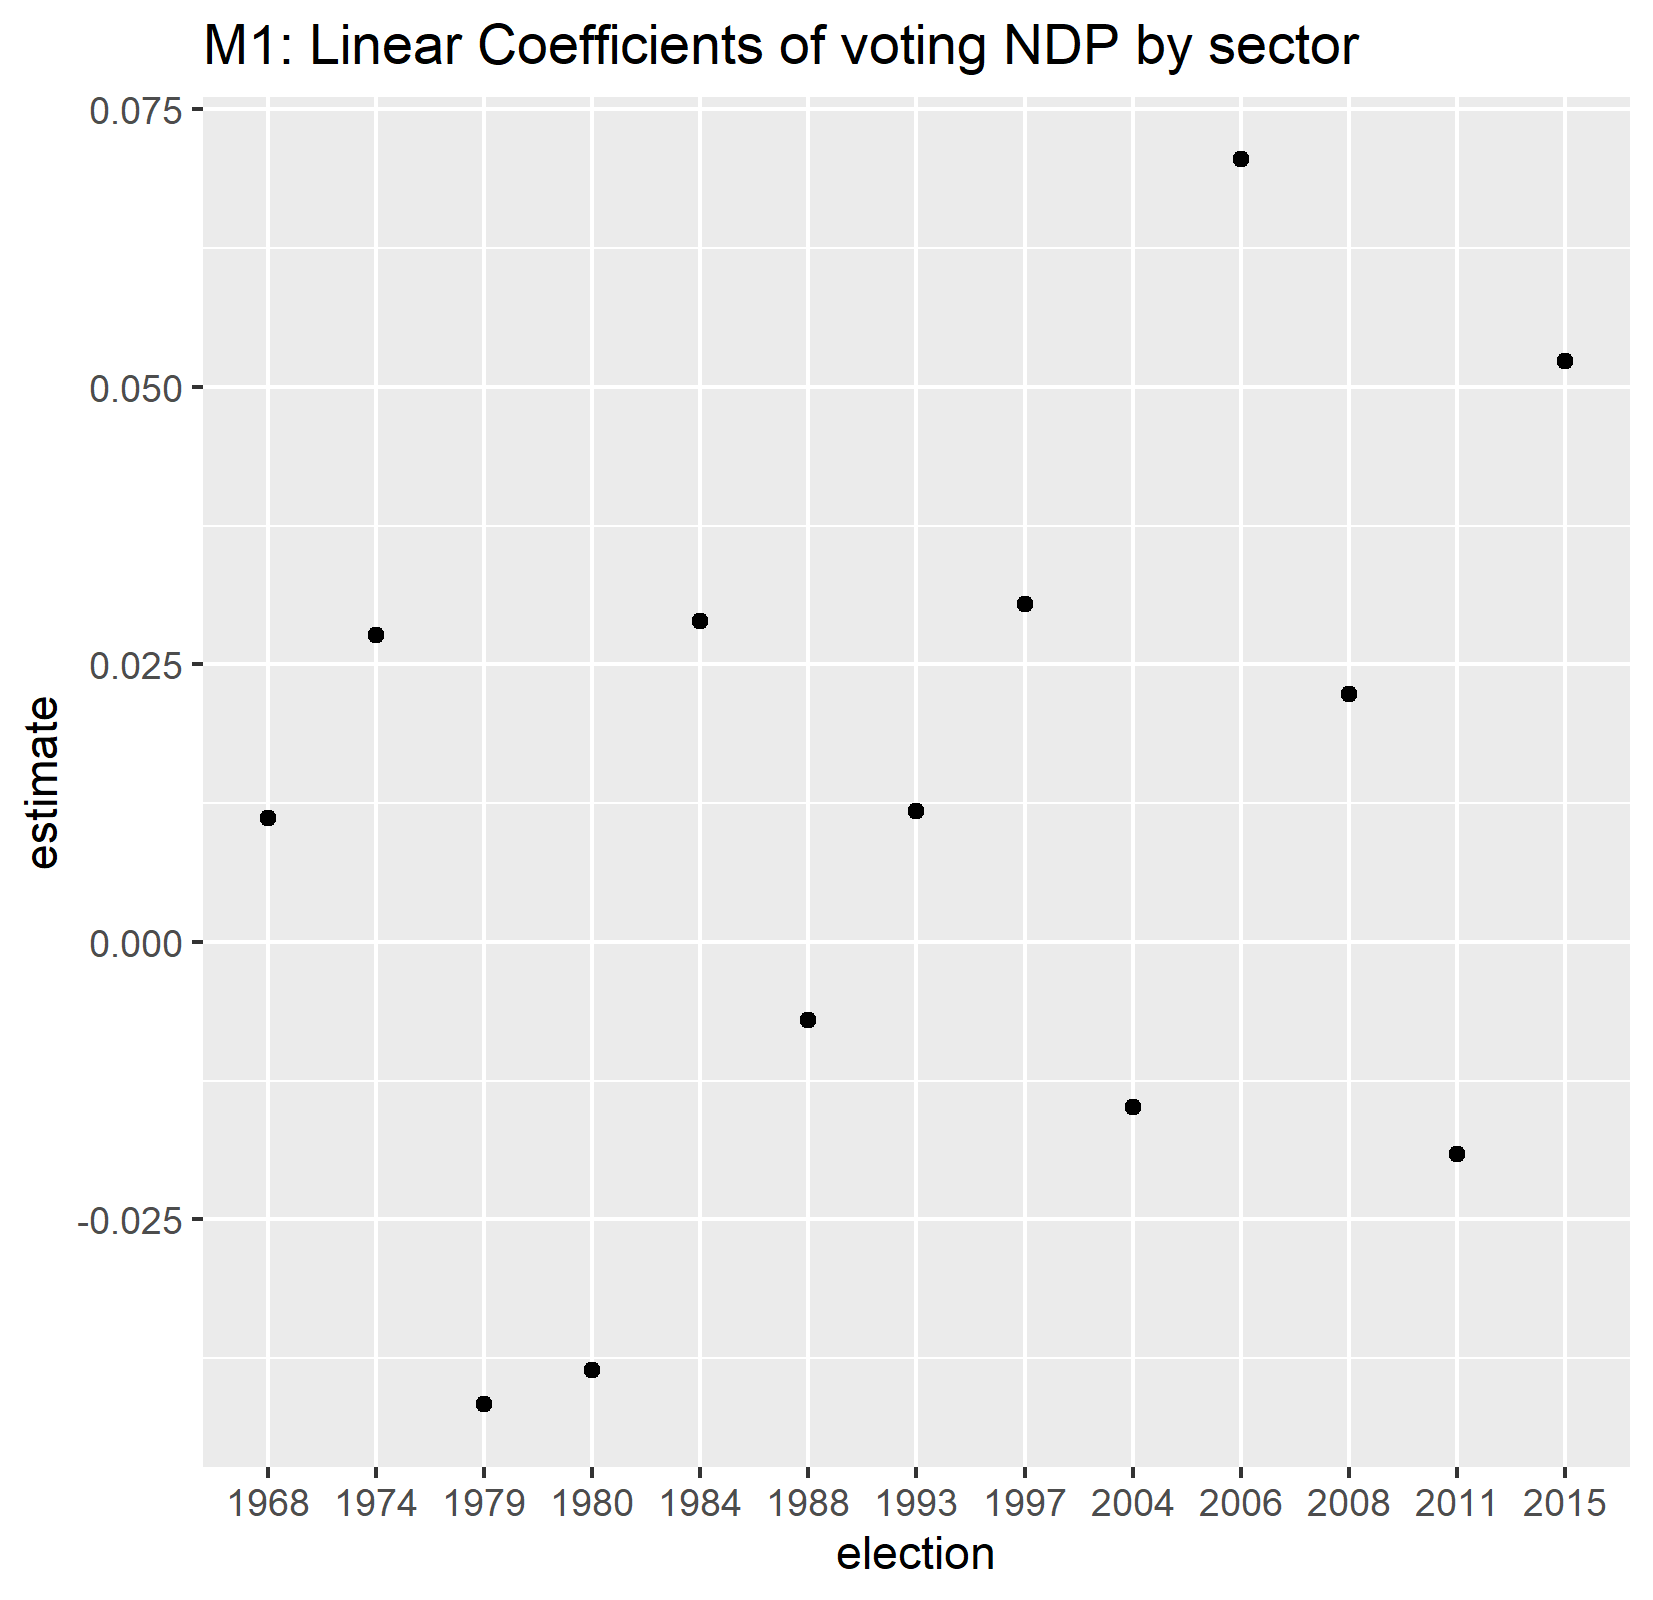
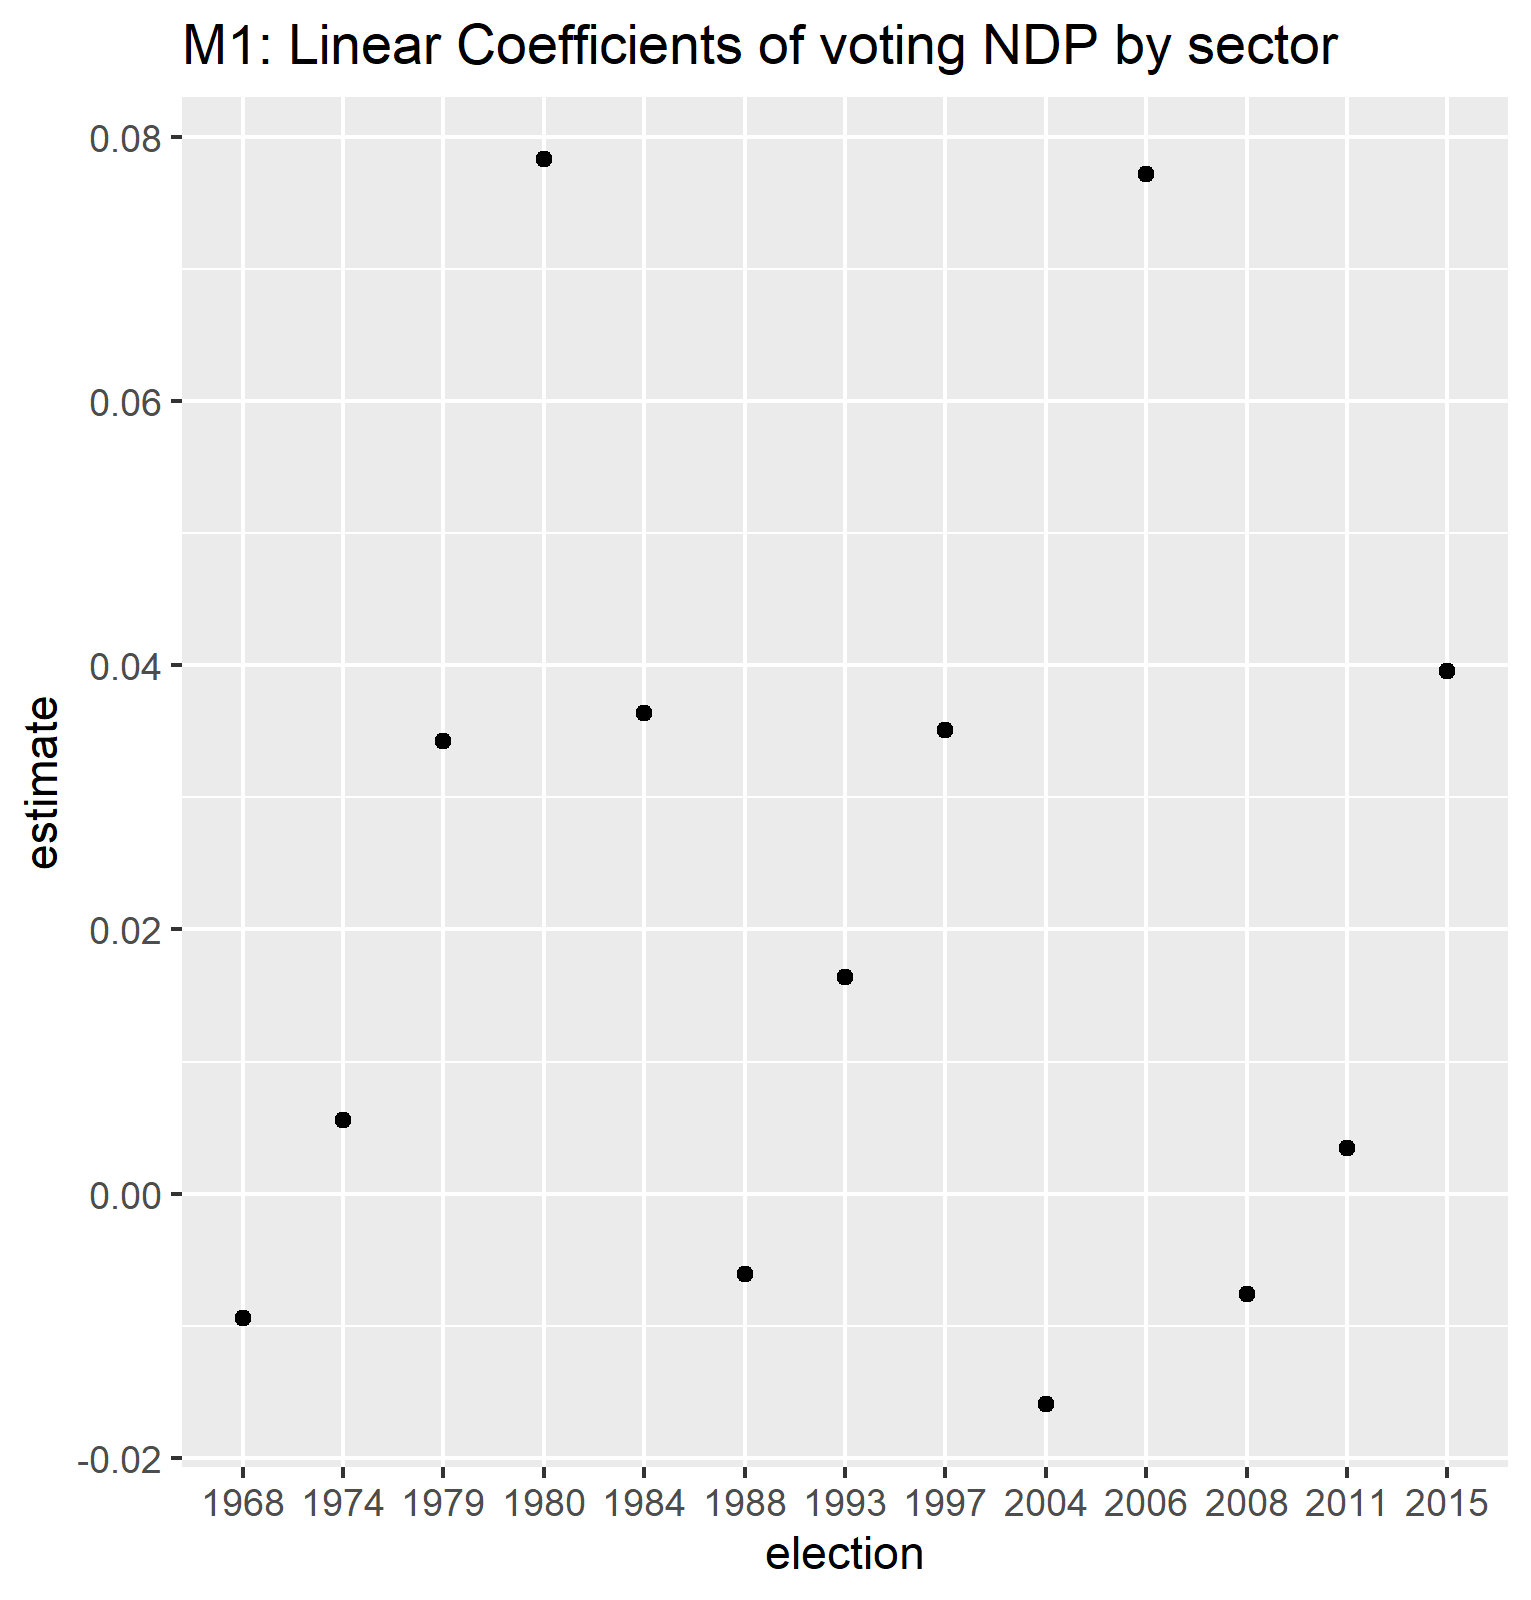
June 11 Sector recodes 88-2019

diff --git a/Tables/M1_Blais_replication.html b/Tables/M1_Blais_replication.html
@@ -1,53 +1,49 @@
 
-<table style="text-align:center"><tr><td colspan="6" style="border-bottom: 1px solid black"></td></tr><tr><td style="text-align:left"></td><td colspan="5"><em>Dependent variable:</em></td></tr>
-<tr><td></td><td colspan="5" style="border-bottom: 1px solid black"></td></tr>
-<tr><td style="text-align:left"></td><td colspan="5">ndp</td></tr>
-<tr><td style="text-align:left"></td><td>1968</td><td>1974</td><td>1979</td><td>1980</td><td>1984</td></tr>
-<tr><td style="text-align:left"></td><td>(1)</td><td>(2)</td><td>(3)</td><td>(4)</td><td>(5)</td></tr>
-<tr><td colspan="6" style="border-bottom: 1px solid black"></td></tr><tr><td style="text-align:left">as.factor(region2)Atlantic</td><td>-0.014</td><td>0.014</td><td>0.095<sup>*</sup></td><td>0.028</td><td>0.027</td></tr>
-<tr><td style="text-align:left"></td><td>(0.031)</td><td>(0.032)</td><td>(0.025)</td><td>(0.034)</td><td>(0.026)</td></tr>
-<tr><td style="text-align:left"></td><td></td><td></td><td></td><td></td><td></td></tr>
-<tr><td style="text-align:left">as.factor(region2)Ontario</td><td>0.102<sup>*</sup></td><td>0.110<sup>*</sup></td><td>0.137<sup>*</sup></td><td>0.100<sup>*</sup></td><td>0.080<sup>*</sup></td></tr>
-<tr><td style="text-align:left"></td><td>(0.022)</td><td>(0.032)</td><td>(0.023)</td><td>(0.031)</td><td>(0.022)</td></tr>
-<tr><td style="text-align:left"></td><td></td><td></td><td></td><td></td><td></td></tr>
-<tr><td style="text-align:left">as.factor(region2)West</td><td>0.112<sup>*</sup></td><td>0.123<sup>*</sup></td><td>0.181<sup>*</sup></td><td>0.128<sup>*</sup></td><td>0.134<sup>*</sup></td></tr>
-<tr><td style="text-align:left"></td><td>(0.024)</td><td>(0.033)</td><td>(0.025)</td><td>(0.034)</td><td>(0.022)</td></tr>
-<tr><td style="text-align:left"></td><td></td><td></td><td></td><td></td><td></td></tr>
-<tr><td style="text-align:left">catholic</td><td>-0.017</td><td>0.008</td><td>0.026</td><td>-0.017</td><td>-0.015</td></tr>
-<tr><td style="text-align:left"></td><td>(0.019)</td><td>(0.023)</td><td>(0.018)</td><td>(0.025)</td><td>(0.017)</td></tr>
-<tr><td style="text-align:left"></td><td></td><td></td><td></td><td></td><td></td></tr>
-<tr><td style="text-align:left">no_religion</td><td>0.080</td><td>-0.012</td><td>0.140<sup>*</sup></td><td>0.080</td><td>0.146<sup>*</sup></td></tr>
-<tr><td style="text-align:left"></td><td>(0.044)</td><td>(0.125)</td><td>(0.035)</td><td>(0.051)</td><td>(0.027)</td></tr>
-<tr><td style="text-align:left"></td><td></td><td></td><td></td><td></td><td></td></tr>
-<tr><td style="text-align:left">non_charter_language</td><td>-0.106<sup>*</sup></td><td>-0.045</td><td>0.013</td><td>0.043</td><td>-0.077</td></tr>
-<tr><td style="text-align:left"></td><td>(0.038)</td><td>(0.031)</td><td>(0.024)</td><td>(0.034)</td><td>(0.061)</td></tr>
-<tr><td style="text-align:left"></td><td></td><td></td><td></td><td></td><td></td></tr>
-<tr><td style="text-align:left">working_class</td><td>0.009</td><td>-0.009</td><td>0.041</td><td>0.065</td><td>0.094<sup>*</sup></td></tr>
-<tr><td style="text-align:left"></td><td>(0.024)</td><td>(0.032)</td><td>(0.034)</td><td>(0.047)</td><td>(0.024)</td></tr>
-<tr><td style="text-align:left"></td><td></td><td></td><td></td><td></td><td></td></tr>
-<tr><td style="text-align:left">union_both</td><td>0.098<sup>*</sup></td><td>0.005<sup>*</sup></td><td>0.098<sup>*</sup></td><td>0.095<sup>*</sup></td><td>0.080<sup>*</sup></td></tr>
-<tr><td style="text-align:left"></td><td>(0.016)</td><td>(0.002)</td><td>(0.015)</td><td>(0.020)</td><td>(0.015)</td></tr>
-<tr><td style="text-align:left"></td><td></td><td></td><td></td><td></td><td></td></tr>
-<tr><td style="text-align:left">age</td><td>0.001</td><td>-0.002<sup>*</sup></td><td>-0.001<sup>*</sup></td><td>-0.002<sup>*</sup></td><td>-0.001</td></tr>
-<tr><td style="text-align:left"></td><td>(0.001)</td><td>(0.001)</td><td>(0.0004)</td><td>(0.001)</td><td>(0.0004)</td></tr>
-<tr><td style="text-align:left"></td><td></td><td></td><td></td><td></td><td></td></tr>
-<tr><td style="text-align:left">female</td><td>-0.034<sup>*</sup></td><td>-0.025</td><td>0.001</td><td>0.025</td><td>0.015</td></tr>
-<tr><td style="text-align:left"></td><td>(0.016)</td><td>(0.020)</td><td>(0.015)</td><td>(0.020)</td><td>(0.015)</td></tr>
-<tr><td style="text-align:left"></td><td></td><td></td><td></td><td></td><td></td></tr>
-<tr><td style="text-align:left">size</td><td>0.011<sup>*</sup></td><td>-0.001</td><td>0.014<sup>*</sup></td><td>0.017<sup>*</sup></td><td>0.007</td></tr>
-<tr><td style="text-align:left"></td><td>(0.005)</td><td>(0.007)</td><td>(0.005)</td><td>(0.007)</td><td>(0.005)</td></tr>
-<tr><td style="text-align:left"></td><td></td><td></td><td></td><td></td><td></td></tr>
-<tr><td style="text-align:left">sector</td><td>-0.012</td><td>0.024</td><td>0.028</td><td>0.069<sup>*</sup></td><td>0.034</td></tr>
-<tr><td style="text-align:left"></td><td>(0.023)</td><td>(0.033)</td><td>(0.025)</td><td>(0.033)</td><td>(0.021)</td></tr>
-<tr><td style="text-align:left"></td><td></td><td></td><td></td><td></td><td></td></tr>
-<tr><td style="text-align:left">Constant</td><td>-0.011</td><td>0.127<sup>*</sup></td><td>-0.008</td><td>0.050</td><td>0.037</td></tr>
-<tr><td style="text-align:left"></td><td>(0.041)</td><td>(0.049)</td><td>(0.037)</td><td>(0.051)</td><td>(0.037)</td></tr>
-<tr><td style="text-align:left"></td><td></td><td></td><td></td><td></td><td></td></tr>
-<tr><td colspan="6" style="border-bottom: 1px solid black"></td></tr><tr><td style="text-align:left">Observations</td><td>1,841</td><td>983</td><td>2,137</td><td>1,356</td><td>2,426</td></tr>
-<tr><td style="text-align:left">R<sup>2</sup></td><td>0.065</td><td>0.050</td><td>0.079</td><td>0.069</td><td>0.066</td></tr>
-<tr><td style="text-align:left">Adjusted R<sup>2</sup></td><td>0.059</td><td>0.038</td><td>0.073</td><td>0.060</td><td>0.062</td></tr>
-<tr><td style="text-align:left">Residual Std. Error</td><td>0.318 (df = 1828)</td><td>0.298 (df = 970)</td><td>0.341 (df = 2124)</td><td>0.364 (df = 1343)</td><td>0.352 (df = 2413)</td></tr>
-<tr><td style="text-align:left">F Statistic</td><td>10.624<sup>*</sup> (df = 12; 1828)</td><td>4.230<sup>*</sup> (df = 12; 970)</td><td>15.113<sup>*</sup> (df = 12; 2124)</td><td>8.240<sup>*</sup> (df = 12; 1343)</td><td>14.299<sup>*</sup> (df = 12; 2413)</td></tr>
-<tr><td colspan="6" style="border-bottom: 1px solid black"></td></tr><tr><td style="text-align:left"><em>Note:</em></td><td colspan="5" style="text-align:right"><sup>*</sup>p<0.05; <sup>**</sup>p<[0.**]; <sup>***</sup>p<[0.***]</td></tr>
-<tr><td style="text-align:left"></td><td colspan="5" style="text-align:right">Printed on 2020-06-10 12:25:25</td></tr>
+<table style="text-align:center"><tr><td colspan="14" style="border-bottom: 1px solid black"></td></tr><tr><td style="text-align:left"></td><td colspan="13"><em>Dependent variable:</em></td></tr>
+<tr><td></td><td colspan="13" style="border-bottom: 1px solid black"></td></tr>
+<tr><td style="text-align:left"></td><td colspan="13">ndp</td></tr>
+<tr><td style="text-align:left"></td><td>1968</td><td>1974</td><td>1979</td><td>1980</td><td>1984</td><td>1988</td><td>1993</td><td>1997</td><td>2004</td><td>2006</td><td>2008</td><td>2011</td><td>2015</td></tr>
+<tr><td style="text-align:left"></td><td>(1)</td><td>(2)</td><td>(3)</td><td>(4)</td><td>(5)</td><td>(6)</td><td>(7)</td><td>(8)</td><td>(9)</td><td>(10)</td><td>(11)</td><td>(12)</td><td>(13)</td></tr>
+<tr><td colspan="14" style="border-bottom: 1px solid black"></td></tr><tr><td style="text-align:left">as.factor(region2)Atlantic</td><td>-0.03</td><td>0.01</td><td>0.07<sup>***</sup></td><td>0.003</td><td>0.02</td><td>-0.06<sup>*</sup></td><td>0.05<sup>**</sup></td><td>0.20<sup>***</sup></td><td>0.13<sup>*</sup></td><td>0.10</td><td>0.14<sup>***</sup></td><td>-0.14<sup>***</sup></td><td>-0.23<sup>***</sup></td></tr>
+<tr><td style="text-align:left"></td><td>(0.03)</td><td>(0.05)</td><td>(0.02)</td><td>(0.03)</td><td>(0.03)</td><td>(0.03)</td><td>(0.02)</td><td>(0.03)</td><td>(0.07)</td><td>(0.07)</td><td>(0.05)</td><td>(0.05)</td><td>(0.04)</td></tr>
+<tr><td style="text-align:left"></td><td></td><td></td><td></td><td></td><td></td><td></td><td></td><td></td><td></td><td></td><td></td><td></td><td></td></tr>
+<tr><td style="text-align:left">as.factor(region2)Ontario</td><td>0.10<sup>***</sup></td><td>0.06</td><td>0.13<sup>***</sup></td><td>0.10<sup>***</sup></td><td>0.08<sup>***</sup></td><td>0.04</td><td>0.03<sup>*</sup></td><td>0.07<sup>***</sup></td><td>0.14<sup>***</sup></td><td>0.14<sup>***</sup></td><td>0.08<sup>**</sup></td><td>-0.18<sup>***</sup></td><td>-0.23<sup>***</sup></td></tr>
+<tr><td style="text-align:left"></td><td>(0.02)</td><td>(0.04)</td><td>(0.02)</td><td>(0.03)</td><td>(0.02)</td><td>(0.03)</td><td>(0.02)</td><td>(0.02)</td><td>(0.04)</td><td>(0.04)</td><td>(0.04)</td><td>(0.04)</td><td>(0.03)</td></tr>
+<tr><td style="text-align:left"></td><td></td><td></td><td></td><td></td><td></td><td></td><td></td><td></td><td></td><td></td><td></td><td></td><td></td></tr>
+<tr><td style="text-align:left">as.factor(region2)West</td><td>0.11<sup>***</sup></td><td>0.04</td><td>0.18<sup>***</sup></td><td>0.13<sup>***</sup></td><td>0.13<sup>***</sup></td><td>0.20<sup>***</sup></td><td>0.11<sup>***</sup></td><td>0.10<sup>***</sup></td><td>0.22<sup>***</sup></td><td>0.20<sup>***</sup></td><td>0.18<sup>***</sup></td><td>-0.16<sup>***</sup></td><td>-0.16<sup>***</sup></td></tr>
+<tr><td style="text-align:left"></td><td>(0.02)</td><td>(0.05)</td><td>(0.02)</td><td>(0.03)</td><td>(0.02)</td><td>(0.03)</td><td>(0.02)</td><td>(0.02)</td><td>(0.05)</td><td>(0.05)</td><td>(0.04)</td><td>(0.04)</td><td>(0.03)</td></tr>
+<tr><td style="text-align:left"></td><td></td><td></td><td></td><td></td><td></td><td></td><td></td><td></td><td></td><td></td><td></td><td></td><td></td></tr>
+<tr><td style="text-align:left">catholic</td><td>-0.02</td><td>0.03</td><td>0.03</td><td>-0.01</td><td>-0.01</td><td>0.01</td><td>-0.02</td><td>-0.01</td><td>0.05</td><td>0.09<sup>**</sup></td><td>-0.01</td><td>0.03</td><td>0.002</td></tr>
+<tr><td style="text-align:left"></td><td>(0.02)</td><td>(0.03)</td><td>(0.02)</td><td>(0.03)</td><td>(0.02)</td><td>(0.02)</td><td>(0.02)</td><td>(0.02)</td><td>(0.04)</td><td>(0.04)</td><td>(0.04)</td><td>(0.03)</td><td>(0.03)</td></tr>
+<tr><td style="text-align:left"></td><td></td><td></td><td></td><td></td><td></td><td></td><td></td><td></td><td></td><td></td><td></td><td></td><td></td></tr>
+<tr><td style="text-align:left">no_religion</td><td>0.08<sup>*</sup></td><td>-0.15</td><td>0.15<sup>***</sup></td><td>0.09<sup>*</sup></td><td>0.15<sup>***</sup></td><td>0.08<sup>**</sup></td><td>-0.03</td><td>0.07<sup>***</sup></td><td>0.15<sup>***</sup></td><td>0.17<sup>***</sup></td><td>0.09<sup>**</sup></td><td>0.08<sup>**</sup></td><td>0.11<sup>***</sup></td></tr>
+<tr><td style="text-align:left"></td><td>(0.04)</td><td>(0.12)</td><td>(0.04)</td><td>(0.05)</td><td>(0.03)</td><td>(0.04)</td><td>(0.02)</td><td>(0.02)</td><td>(0.04)</td><td>(0.04)</td><td>(0.04)</td><td>(0.04)</td><td>(0.03)</td></tr>
+<tr><td style="text-align:left"></td><td></td><td></td><td></td><td></td><td></td><td></td><td></td><td></td><td></td><td></td><td></td><td></td><td></td></tr>
+<tr><td style="text-align:left">non_charter_language</td><td>-0.10<sup>***</sup></td><td>-0.03</td><td>0.02</td><td>0.05</td><td>-0.07</td><td>-0.04</td><td>0.01</td><td>-0.04<sup>*</sup></td><td>0.03</td><td>-0.01</td><td>0.01</td><td>0.01</td><td>-0.05</td></tr>
+<tr><td style="text-align:left"></td><td>(0.04)</td><td>(0.05)</td><td>(0.02)</td><td>(0.03)</td><td>(0.06)</td><td>(0.04)</td><td>(0.02)</td><td>(0.02)</td><td>(0.05)</td><td>(0.06)</td><td>(0.05)</td><td>(0.04)</td><td>(0.04)</td></tr>
+<tr><td style="text-align:left"></td><td></td><td></td><td></td><td></td><td></td><td></td><td></td><td></td><td></td><td></td><td></td><td></td><td></td></tr>
+<tr><td style="text-align:left">working_class</td><td>-0.003</td><td>0.15</td><td>0.02</td><td>0.04</td><td>0.09<sup>***</sup></td><td>0.01</td><td>0.03</td><td>-0.04</td><td>-0.01</td><td>0.01</td><td>0.08</td><td>0.07</td><td>0.11<sup>*</sup></td></tr>
+<tr><td style="text-align:left"></td><td>(0.02)</td><td>(0.16)</td><td>(0.03)</td><td>(0.05)</td><td>(0.02)</td><td>(0.03)</td><td>(0.02)</td><td>(0.03)</td><td>(0.05)</td><td>(0.07)</td><td>(0.06)</td><td>(0.06)</td><td>(0.06)</td></tr>
+<tr><td style="text-align:left"></td><td></td><td></td><td></td><td></td><td></td><td></td><td></td><td></td><td></td><td></td><td></td><td></td><td></td></tr>
+<tr><td style="text-align:left">union_both</td><td>0.10<sup>***</sup></td><td>0.01<sup>**</sup></td><td>0.10<sup>***</sup></td><td>0.10<sup>***</sup></td><td>0.08<sup>***</sup></td><td>0.10<sup>***</sup></td><td>0.05<sup>***</sup></td><td>0.07<sup>***</sup></td><td>0.12<sup>***</sup></td><td>0.06<sup>*</sup></td><td>0.09<sup>***</sup></td><td>0.09<sup>***</sup></td><td>0.06<sup>**</sup></td></tr>
+<tr><td style="text-align:left"></td><td>(0.02)</td><td>(0.003)</td><td>(0.02)</td><td>(0.02)</td><td>(0.01)</td><td>(0.02)</td><td>(0.01)</td><td>(0.02)</td><td>(0.03)</td><td>(0.03)</td><td>(0.03)</td><td>(0.03)</td><td>(0.03)</td></tr>
+<tr><td style="text-align:left"></td><td></td><td></td><td></td><td></td><td></td><td></td><td></td><td></td><td></td><td></td><td></td><td></td><td></td></tr>
+<tr><td style="text-align:left">age</td><td>0.001</td><td>-0.003<sup>**</sup></td><td>-0.001<sup>***</sup></td><td>-0.002<sup>***</sup></td><td>-0.001<sup>*</sup></td><td>-0.002<sup>***</sup></td><td>0.0001</td><td>0.0000</td><td>-0.003<sup>**</sup></td><td>-0.0004</td><td>-0.002<sup>*</sup></td><td>0.001</td><td>-0.0003</td></tr>
+<tr><td style="text-align:left"></td><td>(0.001)</td><td>(0.001)</td><td>(0.0004)</td><td>(0.001)</td><td>(0.0004)</td><td>(0.001)</td><td>(0.0004)</td><td>(0.0005)</td><td>(0.001)</td><td>(0.001)</td><td>(0.001)</td><td>(0.001)</td><td>(0.001)</td></tr>
+<tr><td style="text-align:left"></td><td></td><td></td><td></td><td></td><td></td><td></td><td></td><td></td><td></td><td></td><td></td><td></td><td></td></tr>
+<tr><td style="text-align:left">female</td><td>-0.04<sup>**</sup></td><td>-0.04</td><td>0.001</td><td>0.02</td><td>0.01</td><td>0.01</td><td>0.001</td><td>0.06<sup>***</sup></td><td>0.0002</td><td>0.01</td><td>0.08<sup>***</sup></td><td>0.03</td><td>0.04<sup>*</sup></td></tr>
+<tr><td style="text-align:left"></td><td>(0.02)</td><td>(0.03)</td><td>(0.02)</td><td>(0.02)</td><td>(0.01)</td><td>(0.02)</td><td>(0.01)</td><td>(0.02)</td><td>(0.03)</td><td>(0.03)</td><td>(0.03)</td><td>(0.03)</td><td>(0.02)</td></tr>
+<tr><td style="text-align:left"></td><td></td><td></td><td></td><td></td><td></td><td></td><td></td><td></td><td></td><td></td><td></td><td></td><td></td></tr>
+<tr><td style="text-align:left">sector</td><td>-0.01</td><td>0.01</td><td>0.03</td><td>0.08<sup>**</sup></td><td>0.04<sup>*</sup></td><td>-0.01</td><td>0.02</td><td>0.04<sup>**</sup></td><td>-0.02</td><td>0.08<sup>**</sup></td><td>-0.01</td><td>0.003</td><td>0.04</td></tr>
+<tr><td style="text-align:left"></td><td>(0.02)</td><td>(0.05)</td><td>(0.03)</td><td>(0.03)</td><td>(0.02)</td><td>(0.02)</td><td>(0.01)</td><td>(0.02)</td><td>(0.03)</td><td>(0.04)</td><td>(0.03)</td><td>(0.03)</td><td>(0.03)</td></tr>
+<tr><td style="text-align:left"></td><td></td><td></td><td></td><td></td><td></td><td></td><td></td><td></td><td></td><td></td><td></td><td></td><td></td></tr>
+<tr><td style="text-align:left">Constant</td><td>0.03</td><td>0.19<sup>***</sup></td><td>0.04</td><td>0.11<sup>**</sup></td><td>0.06<sup>*</sup></td><td>0.18<sup>***</sup></td><td>-0.01</td><td>-0.02</td><td>0.06</td><td>-0.06</td><td>0.09</td><td>0.28<sup>***</sup></td><td>0.28<sup>***</sup></td></tr>
+<tr><td style="text-align:left"></td><td>(0.04)</td><td>(0.07)</td><td>(0.03)</td><td>(0.04)</td><td>(0.03)</td><td>(0.04)</td><td>(0.03)</td><td>(0.03)</td><td>(0.08)</td><td>(0.08)</td><td>(0.07)</td><td>(0.07)</td><td>(0.06)</td></tr>
+<tr><td style="text-align:left"></td><td></td><td></td><td></td><td></td><td></td><td></td><td></td><td></td><td></td><td></td><td></td><td></td><td></td></tr>
+<tr><td colspan="14" style="border-bottom: 1px solid black"></td></tr><tr><td style="text-align:left">Observations</td><td>1,841</td><td>508</td><td>2,137</td><td>1,356</td><td>2,426</td><td>1,596</td><td>1,748</td><td>1,734</td><td>598</td><td>578</td><td>864</td><td>1,179</td><td>1,234</td></tr>
+<tr><td style="text-align:left">R<sup>2</sup></td><td>0.06</td><td>0.04</td><td>0.08</td><td>0.06</td><td>0.07</td><td>0.08</td><td>0.05</td><td>0.07</td><td>0.09</td><td>0.08</td><td>0.07</td><td>0.05</td><td>0.08</td></tr>
+<tr><td style="text-align:left">Adjusted R<sup>2</sup></td><td>0.06</td><td>0.01</td><td>0.07</td><td>0.06</td><td>0.06</td><td>0.07</td><td>0.04</td><td>0.07</td><td>0.07</td><td>0.06</td><td>0.06</td><td>0.04</td><td>0.07</td></tr>
+<tr><td style="text-align:left">Residual Std. Error</td><td>0.32 (df = 1829)</td><td>0.32 (df = 496)</td><td>0.34 (df = 2125)</td><td>0.36 (df = 1344)</td><td>0.35 (df = 2414)</td><td>0.40 (df = 1584)</td><td>0.25 (df = 1736)</td><td>0.31 (df = 1722)</td><td>0.37 (df = 586)</td><td>0.38 (df = 566)</td><td>0.39 (df = 852)</td><td>0.46 (df = 1167)</td><td>0.39 (df = 1222)</td></tr>
+<tr><td style="text-align:left">F Statistic</td><td>11.16<sup>***</sup> (df = 11; 1829)</td><td>1.68<sup>*</sup> (df = 11; 496)</td><td>15.75<sup>***</sup> (df = 11; 2125)</td><td>8.40<sup>***</sup> (df = 11; 1344)</td><td>15.41<sup>***</sup> (df = 11; 2414)</td><td>12.34<sup>***</sup> (df = 11; 1584)</td><td>8.14<sup>***</sup> (df = 11; 1736)</td><td>12.06<sup>***</sup> (df = 11; 1722)</td><td>5.07<sup>***</sup> (df = 11; 586)</td><td>4.65<sup>***</sup> (df = 11; 566)</td><td>5.82<sup>***</sup> (df = 11; 852)</td><td>5.06<sup>***</sup> (df = 11; 1167)</td><td>9.68<sup>***</sup> (df = 11; 1222)</td></tr>
+<tr><td colspan="14" style="border-bottom: 1px solid black"></td></tr><tr><td style="text-align:left"><em>Note:</em></td><td colspan="13" style="text-align:right"><sup>*</sup>p<0.1; <sup>**</sup>p<0.05; <sup>***</sup>p<0.01</td></tr>
 </table>
